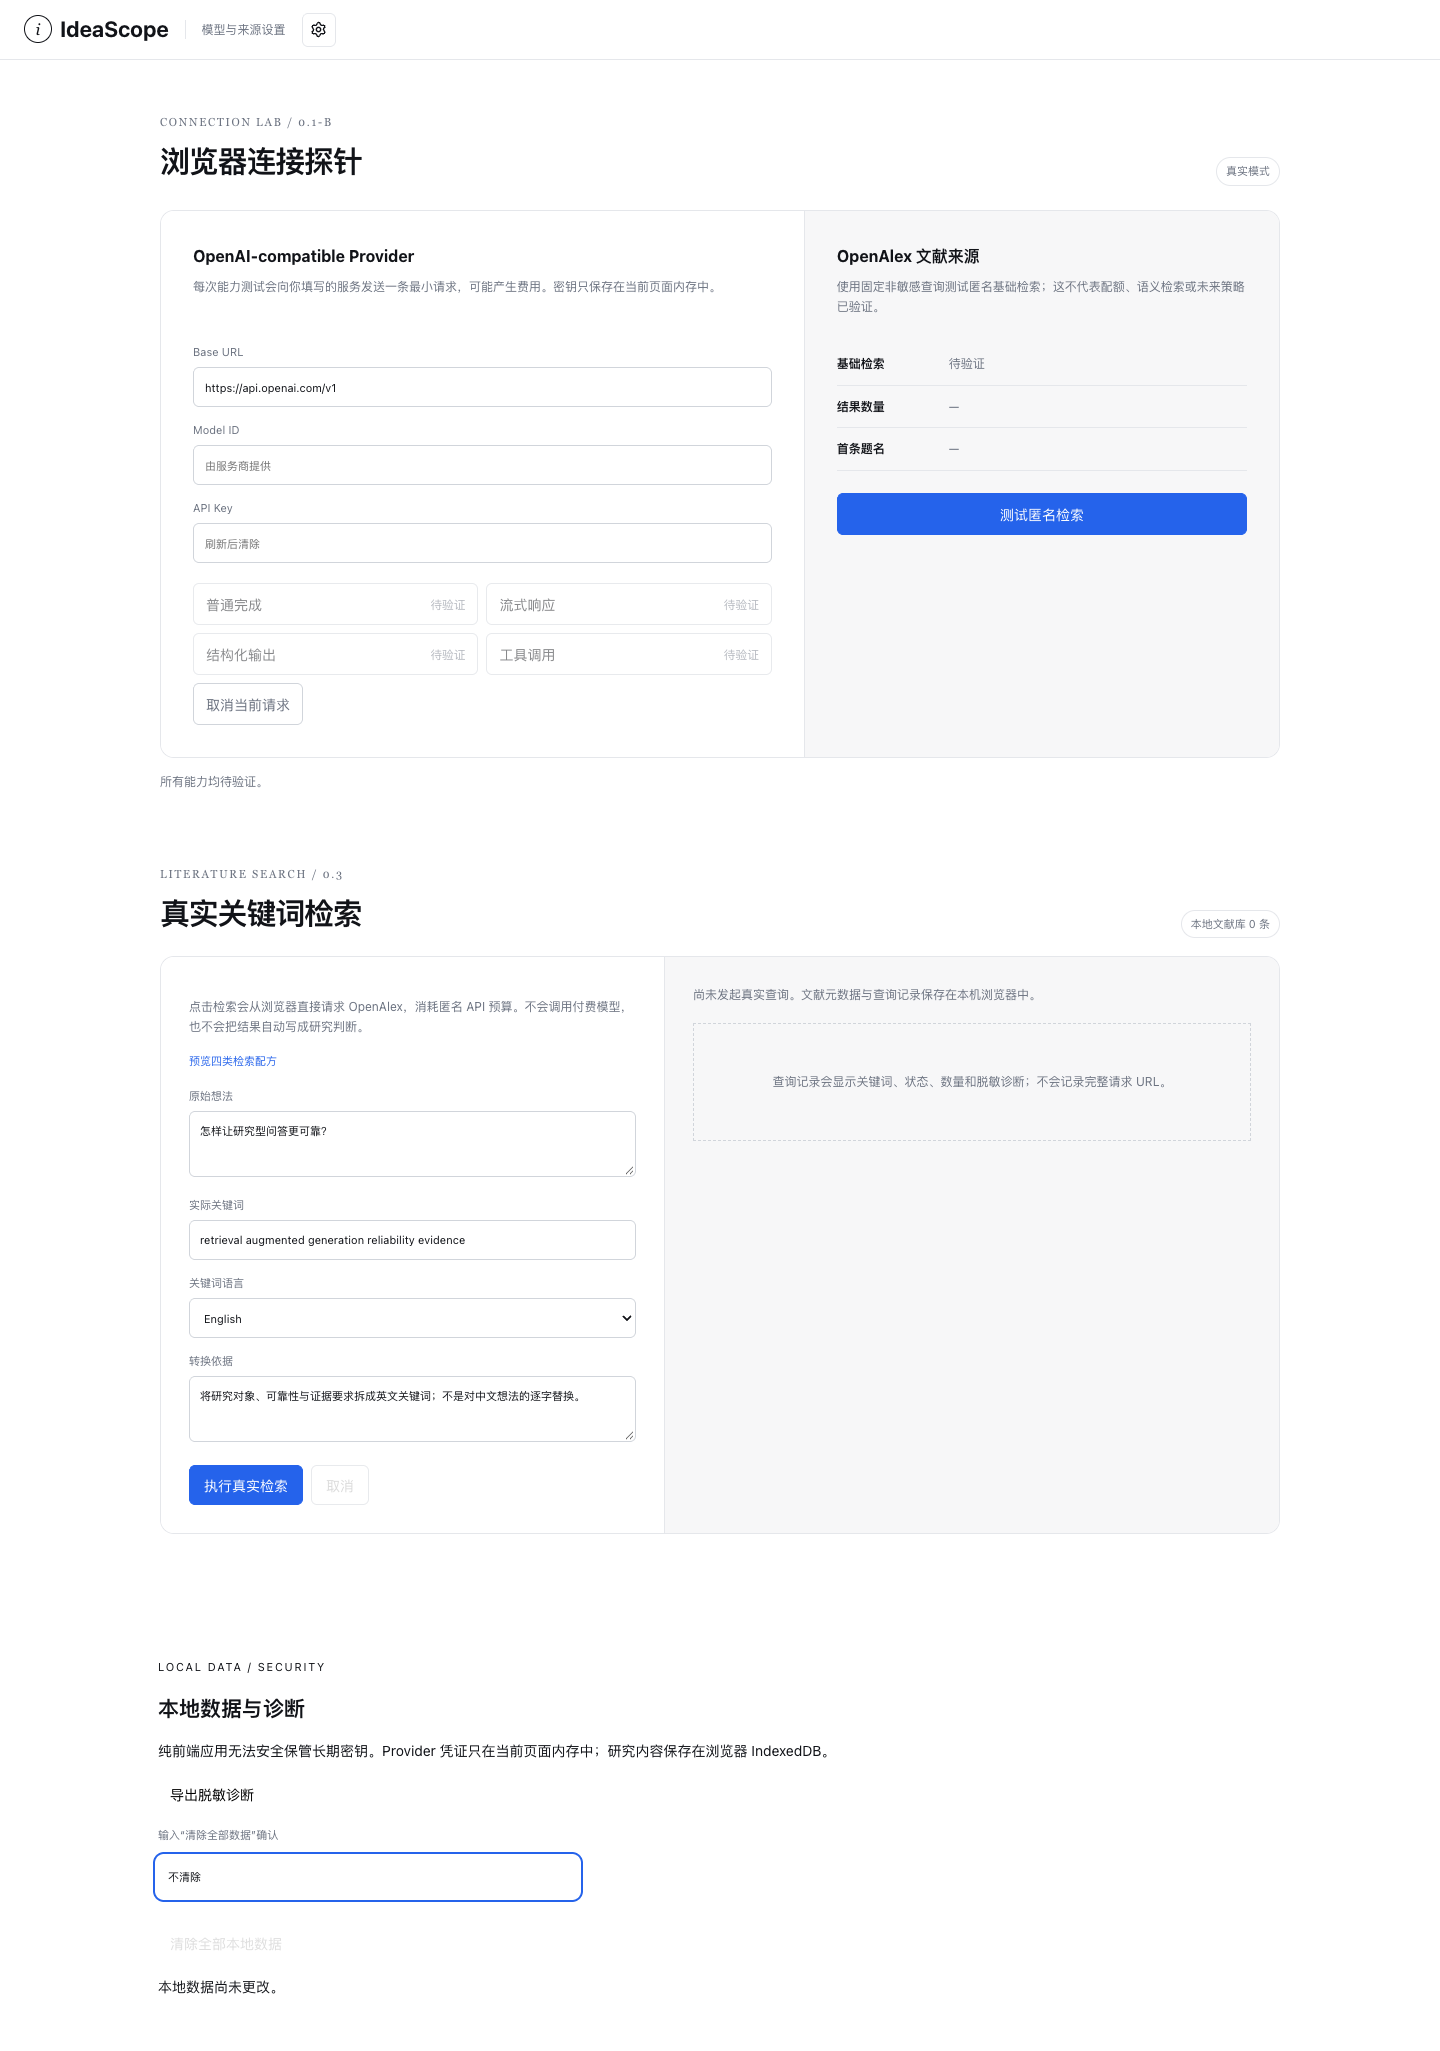
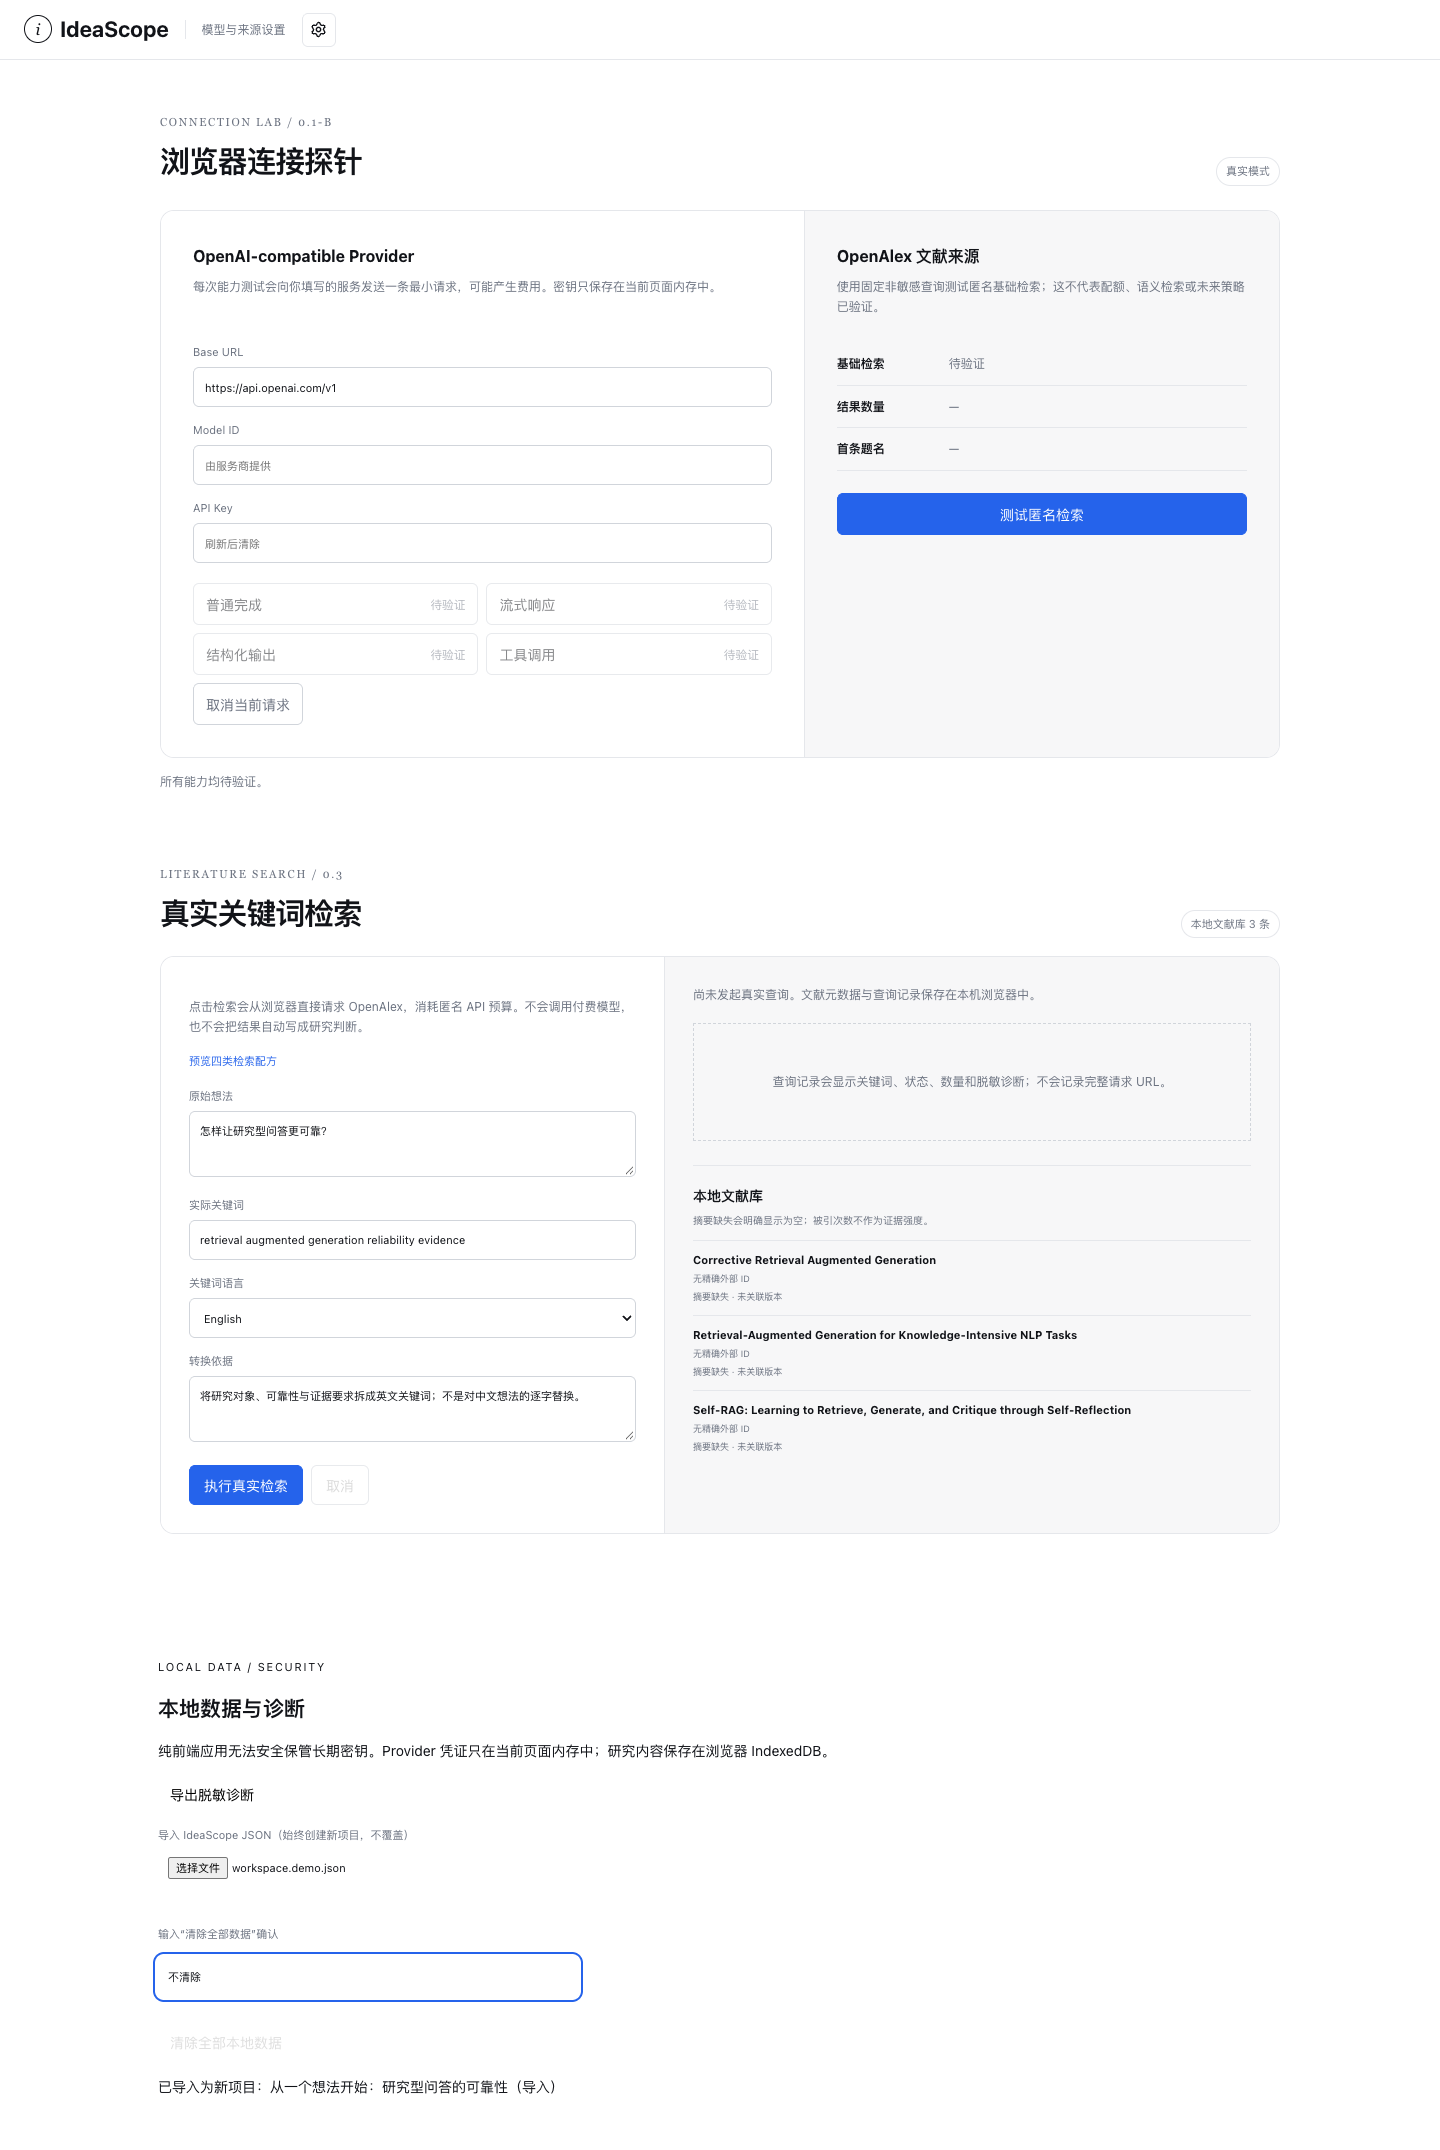
fix: expose safe workspace import

diff --git a/src/features/provider-settings/DataSafetyPanel.tsx b/src/features/provider-settings/DataSafetyPanel.tsx
@@ -2,6 +2,8 @@ import { useState } from "react";
 import { DiagnosticExporter } from "../../infrastructure/export/diagnostic-export";
 import { downloadText } from "../../infrastructure/export/download";
 import { LocalDataService } from "../../infrastructure/storage/local-data-service";
+import { WorkspaceRepository } from "../../infrastructure/storage/workspace-repository";
+import { cloneImportedWorkspace } from "../../domain/export/workspace-export";
 import styles from "./DataSafetyPanel.module.css";
 
 export function DataSafetyPanel() {
@@ -20,11 +22,25 @@ export function DataSafetyPanel() {
       setStatus(error instanceof Error ? error.message : "清除失败。");
     }
   }
+  async function importWorkspace(file: File | undefined) {
+    if (!file) return;
+    try {
+      const repository = new WorkspaceRepository();
+      const existing = new Set((await repository.list()).map(({ id }) => id));
+      const raw = JSON.parse(await file.text()) as unknown;
+      const imported = cloneImportedWorkspace(raw, existing, () => crypto.randomUUID());
+      const result = await repository.save(imported);
+      setStatus(result.status === "saved" ? `已导入为新项目：${imported.workspace.title}` : result.message);
+    } catch (error) {
+      setStatus(error instanceof Error ? `导入失败：${error.message}` : "导入失败。");
+    }
+  }
   return <section className={styles.panel} aria-labelledby="data-safety-title">
     <p>LOCAL DATA / SECURITY</p>
     <h2 id="data-safety-title">本地数据与诊断</h2>
     <p>纯前端应用无法安全保管长期密钥。Provider 凭证只在当前页面内存中；研究内容保存在浏览器 IndexedDB。</p>
     <button type="button" onClick={() => void diagnostics()}>导出脱敏诊断</button>
+    <label>导入 IdeaScope JSON（始终创建新项目，不覆盖）<input type="file" accept="application/json,.json" onChange={(event) => void importWorkspace(event.target.files?.[0])} /></label>
     <label>输入“清除全部数据”确认<input value={confirmation} onChange={(event) => setConfirmation(event.target.value)} /></label>
     <button type="button" disabled={confirmation !== "清除全部数据"} onClick={() => void clearAll()}>清除全部本地数据</button>
     <p role="status">{status}</p>

diff --git a/tests/e2e/static-preview.spec.ts b/tests/e2e/static-preview.spec.ts
@@ -26,6 +26,8 @@ test("exposes redacted diagnostics and guarded local data cleanup", async ({ pag
   await expect(page.getByText(/纯前端应用无法安全保管长期密钥/)).toBeVisible();
   const clear = page.getByRole("button", { name: "清除全部本地数据" });
   await expect(clear).toBeDisabled();
+  await page.getByLabel(/导入 IdeaScope JSON/).setInputFiles("examples/workspace.demo.json");
+  await expect(page.getByText(/已导入为新项目/)).toBeVisible();
   const download = page.waitForEvent("download");
   await page.getByRole("button", { name: "导出脱敏诊断" }).click();
   expect((await download).suggestedFilename()).toBe("ideascope-diagnostics.json");

diff --git a/docs/PROGRESS.md b/docs/PROGRESS.md
@@ -464,7 +464,7 @@
 
 人工验收与截图：已检查 `reports/visual/export-dialog-1440x900.png`；导出仍使用既有 Dialog、按钮和黑白灰层级，敏感内容摘要先于下载操作，无新增大面积彩色区域。
 
-未完成 / 待实测：PNG 已在 Chromium 路径实现，Safari/Firefox 实机下载和极大图内存压力待跨浏览器验证；未部署 Pages。导入文件选择 UI 留在安全收尾阶段，核心迁移/克隆已实现并测试。
+未完成 / 待实测：PNG 已在 Chromium 路径实现，Safari/Firefox 实机下载和极大图内存压力待跨浏览器验证；未部署 Pages。导入文件选择在 v0.6-C 安全面板补齐，文件只在本地读取。
 
 风险与决策：导出前明确列出可能敏感的本地内容；SVG 作为大图可靠兜底。Paper/Evidence 题名和摘要一律转义为文本，不执行 HTML。
 
@@ -480,7 +480,7 @@
 
 实际修改文件：`SafeRichText`、Provider transports、`DiagnosticExporter`、`LocalDataService`、设置页安全面板、攻击夹具/测试、`docs/DATA_FLOWS_AND_SECURITY.md`、e2e/截图与本文件。
 
-已完成：不可信 HTML、Markdown image 和 javascript link 只作为文本显示；http(s) 明文 URL 才生成带 noreferrer/noopener 的链接，不使用 innerHTML，不自动加载图片。远程 Provider 强制 HTTPS，localhost 例外；URL 禁止内嵌 username/password，fetch 禁止 redirect，凭证只发往用户明确配置的 origin。脱敏诊断排除查询、cache key、完整 URL、headers、prompt、response 和消息。清除全部数据需输入完整确认文字，在单一 Dexie 事务清空所有表并清空内存 key。文档列出 Provider、OpenAlex 与本地下载的具体数据流，并明确纯前端不能安全保管长期密钥。
+已完成：不可信 HTML、Markdown image 和 javascript link 只作为文本显示；http(s) 明文 URL 才生成带 noreferrer/noopener 的链接，不使用 innerHTML，不自动加载图片。远程 Provider 强制 HTTPS，localhost 例外；URL 禁止内嵌 username/password，fetch 禁止 redirect，凭证只发往用户明确配置的 origin。脱敏诊断排除查询、cache key、完整 URL、headers、prompt、response 和消息。本地 JSON 文件经迁移校验后始终以新 UUID 导入，不覆盖现有项目，也不上传。清除全部数据需输入完整确认文字，在单一 Dexie 事务清空所有表并清空内存 key。文档列出 Provider、OpenAlex 与本地下载的具体数据流，并明确纯前端不能安全保管长期密钥。
 
 测试命令与结果：`npm run check` 全部通过；ESLint、严格 typecheck、17 个 unit/contract 文件共 65 项测试、production build、12 项 Playwright e2e 与 secret scan 均成功。阶段 unit 覆盖攻击渲染、endpoint、redirect 配置、诊断字段与全量清除，e2e 覆盖诊断下载和清除门禁。package 与演示导出版本已更新为 0.6.0；远端 CI 在提交后确认。
 
